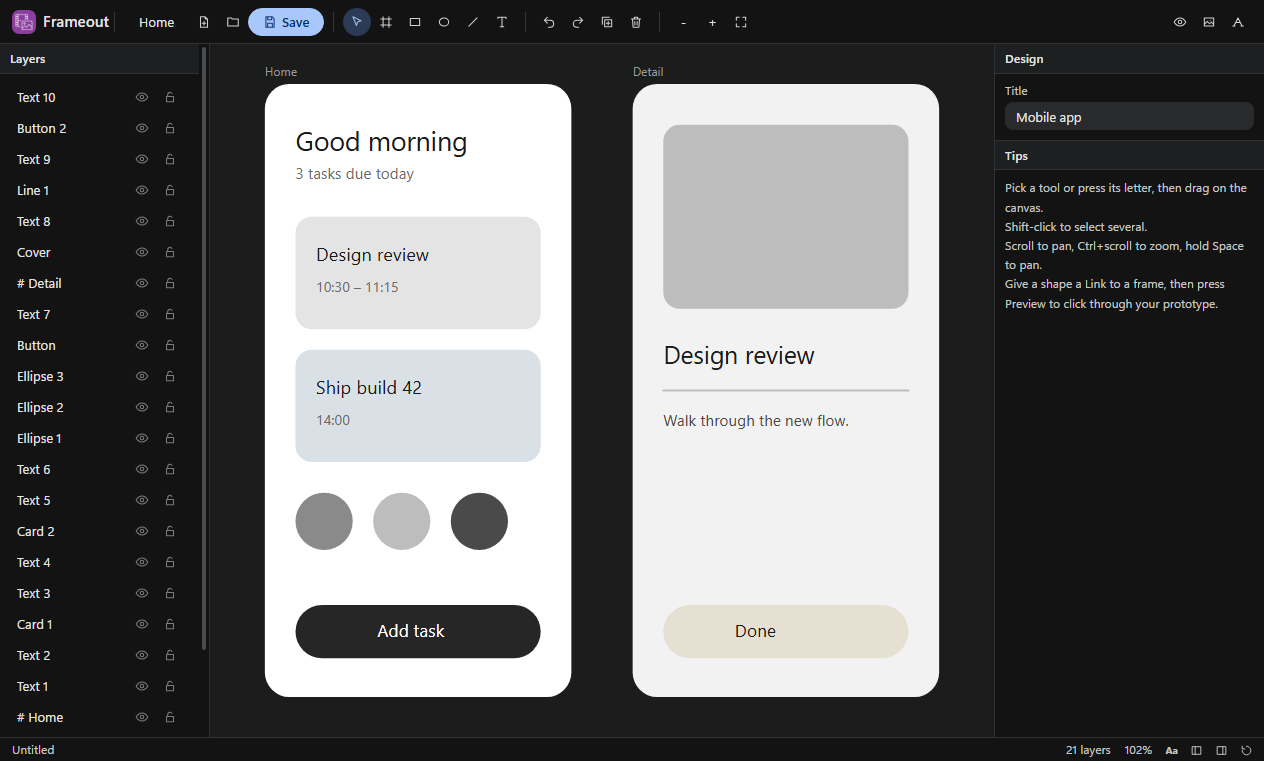
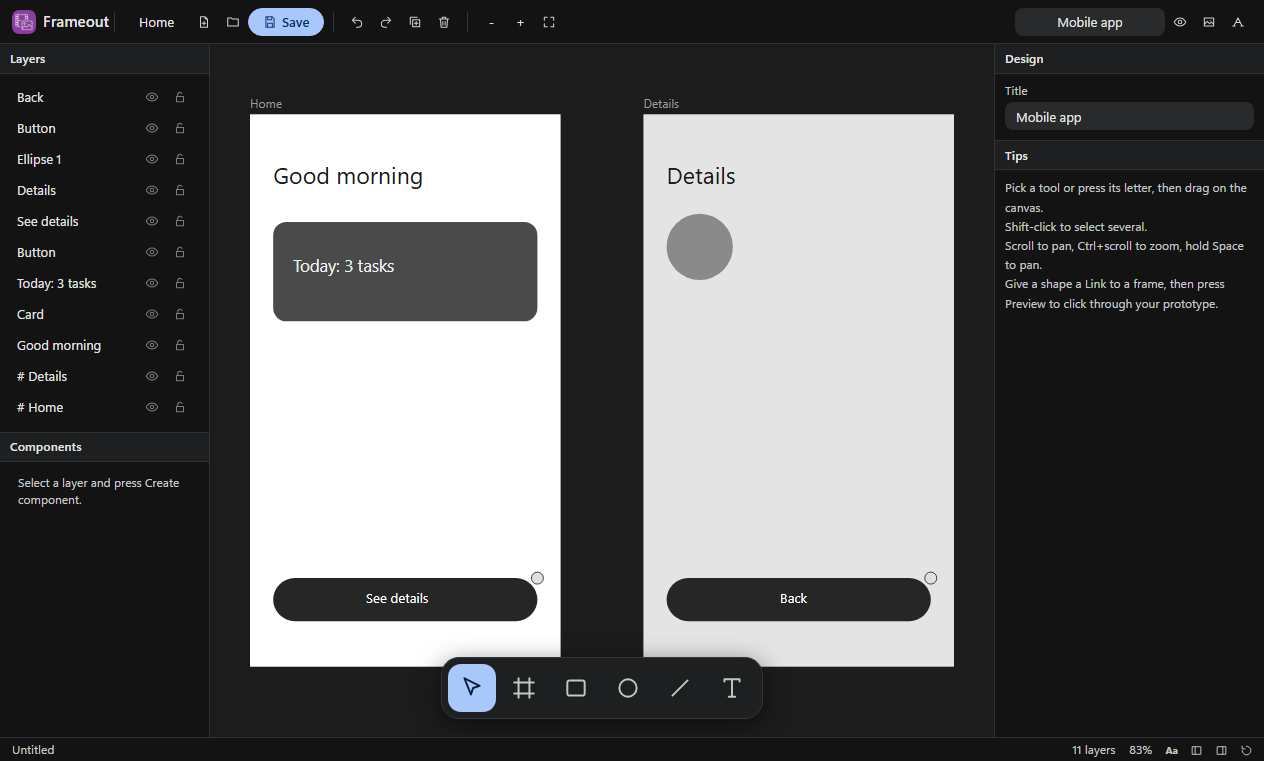
fix: Frameout 1.0.20
Tools moved to a floating bar at the bottom of the canvas with larger icons (Figma style).

diff --git a/renderer/app.js b/renderer/app.js
@@ -115,10 +115,26 @@ const toolBtns = {};
 const TOOLS = [['select', 'Move'], ['frame', 'Frame'], ['rect', 'Rectangle'], ['ellipse', 'Ellipse'], ['line', 'Line'], ['text', 'Text']];
 const titleInput = h('input', { type: 'text', class: 'tbtitle', maxlength: 80, title: 'Design name', 'aria-label': 'Design name', placeholder: 'Untitled design', oninput: (e) => { doc.title = e.target.value; }, onchange: (e) => { if (!e.target.value.trim()) { doc.title = 'Untitled design'; e.target.value = doc.title; } }, onkeydown: (e) => { e.stopPropagation(); if (e.key === 'Enter') e.target.blur(); } });
 toolbar.append(btn('Home', () => showHome('home')), btn('New', newDoc), btn('Open', openDoc), btn('Save', saveDoc, 'primary'), h('span', { class: 'sep' }));
-TOOLS.forEach(([k, label]) => { const b = btn(label, () => setTool(k)); toolBtns[k] = b; toolbar.append(b); });
-toolbar.append(h('span', { class: 'sep' }), btn('Undo', undo), btn('Redo', redo), btn('Duplicate', dupe), btn('Delete', del), h('span', { class: 'sep' }),
+toolbar.append(btn('Undo', undo), btn('Redo', redo), btn('Duplicate', dupe), btn('Delete', del), h('span', { class: 'sep' }),
   btn('-', () => zoomBy(1 / 1.2), 'icon'), btn('+', () => zoomBy(1.2), 'icon'), btn('Fit', fit), h('span', { class: 'grow' }), titleInput,
   btn('Preview', startPreview), btn('Export PNG', () => exportImg('png')), btn('Export SVG', () => exportImg('svg')));
+// floating tool dock at the bottom of the canvas, like Figma
+const TOOL_ICONS = {
+  select: '<path d="M5 3l14 7-6 2-2 6z"/>',
+  frame: '<path d="M7 3v18M17 3v18M3 7h18M3 17h18"/>',
+  rect: '<rect x="4" y="5" width="16" height="14" rx="2"/>',
+  ellipse: '<circle cx="12" cy="12" r="8"/>',
+  line: '<path d="M5 19L19 5"/>',
+  text: '<path d="M5 6V4h14v2M12 4v16M9 20h6"/>',
+};
+const dock = h('div', { class: 'dock', role: 'toolbar', 'aria-label': 'Tools' });
+for (const [k, label, key] of [['select', 'Move', 'V'], ['frame', 'Frame', 'F'], ['rect', 'Rectangle', 'R'], ['ellipse', 'Ellipse', 'O'], ['line', 'Line', 'L'], ['text', 'Text', 'T']]) {
+  const ico = sv('svg', { viewBox: '0 0 24 24', width: 26, height: 26, fill: 'none', stroke: 'currentColor', 'stroke-width': 1.8, 'stroke-linecap': 'round', 'stroke-linejoin': 'round', 'aria-hidden': 'true' });
+  for (const n of [...new DOMParser().parseFromString('<svg xmlns="' + NS + '">' + TOOL_ICONS[k] + '</svg>', 'image/svg+xml').documentElement.childNodes]) ico.append(document.importNode(n, true));
+  const b = h('button', { class: 'dk', title: label + ' (' + key + ')', 'aria-label': label, onclick: () => setTool(k) }, ico);
+  toolBtns[k] = b; dock.append(b);
+}
+stage.append(dock);
 function setTool(t) { tool = t; for (const k in toolBtns) toolBtns[k].classList.toggle('on', k === t); svg.style.cursor = t === 'select' ? 'default' : 'crosshair'; }
 
 const svg = sv('svg', { width: '100%', height: '100%', style: 'display:block;touch-action:none;background:#1c1c1c' });

diff --git a/renderer/app.css b/renderer/app.css
@@ -45,3 +45,7 @@
 .hbar{color:var(--text-2)}
 .tbtitle{width:200px;height:30px;padding:0 12px;border-radius:15px;border:1px solid transparent;background:var(--bg-3);color:var(--text);font:inherit;font-size:13px;text-align:center}
 .tbtitle:focus{border-color:var(--accent);outline:0}
+.dock{position:absolute;left:50%;bottom:18px;transform:translateX(-50%);z-index:5;display:flex;gap:4px;padding:6px;background:var(--bg-2);border:1px solid var(--bg-4);border-radius:18px;box-shadow:0 6px 24px rgba(0,0,0,.5)}
+.dk{width:48px;height:48px;display:flex;align-items:center;justify-content:center;border:0;border-radius:13px;background:transparent;color:var(--text-2);cursor:pointer}
+.dk:hover{background:var(--bg-3);color:var(--text)}
+.dk.on{background:var(--accent);color:var(--accent-ink)}

diff --git a/README.md b/README.md
@@ -65,6 +65,8 @@ Press **Home** in the top bar at any time to come back to this screen. Your desi
 
 ## What is new
 
+**1.0.20:** the drawing tools (Move, Frame, Rectangle, Ellipse, Line, Text) now sit in a floating bar at the bottom of the canvas, like Figma, with larger icons. Shortcuts V, F, R, O, L and T still work.
+
 **1.0.19:** you can name a design: a Name box in the New design window, and a name box at the top right of the editor to rename it any time. The name shows on its Recent card and is used as the file name when you save or export.
 
 **1.0.18:** cleaner line icons in the left bar and on the Start cards, and the New design window now also lists the templates.
